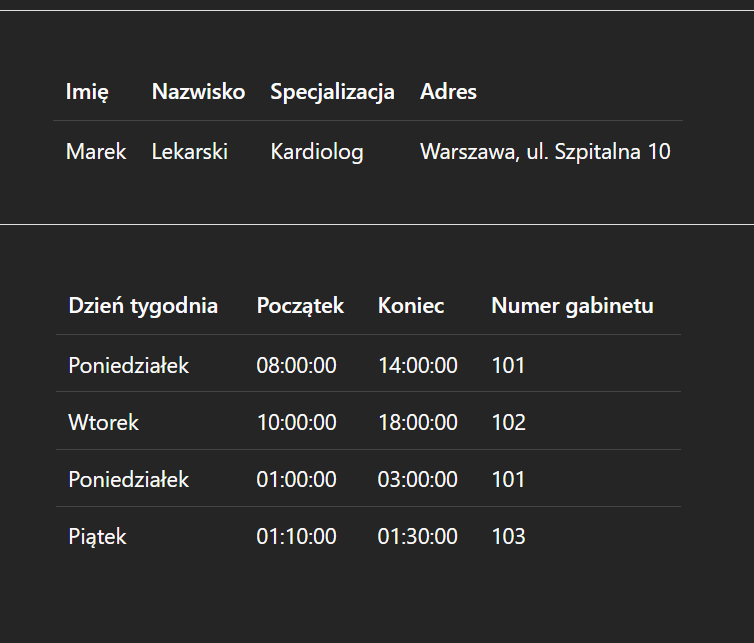
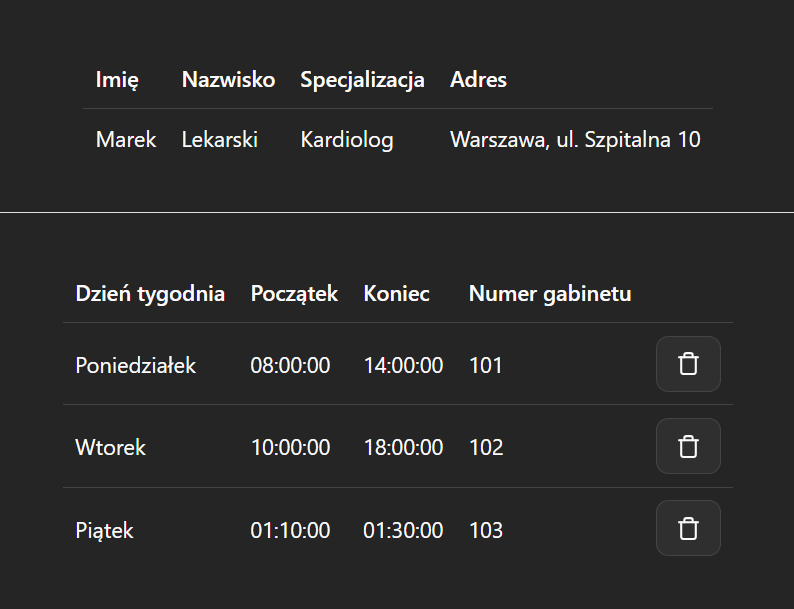
small visual and README changes

diff --git a/frontend/src/components/pages/patient-panel/PatientDetailsPage.tsx b/frontend/src/components/pages/patient-panel/PatientDetailsPage.tsx
@@ -11,14 +11,24 @@ import {
   callGetPatientAppointments,
   callGetPatientById,
 } from "@/api/patient_calls";
-import { TableDetailsStyled } from "@/styles/styledcomponent";
+import { Divider, TableDetailsStyled } from "@/styles/styledcomponent";
 import { Button } from "@/components/ui/button";
 import { toast } from "sonner";
 import { callDeleteAppointments } from "@/api/appointment_calls";
-import type { Appointment } from "@/types/appointment";
 import { Trash } from "lucide-react";
 import type { Doctor } from "@/types/doctor";
 import { SPECIALIZATIONS } from "@/constants/specializations";
+import styled from "styled-components";
+
+const CenterText = styled.div`
+  display: flex;
+  justify-content: center;
+  align-items: center;
+`;
+
+const AppointmentWrapper = styled.div`
+  margin-top: 20px;
+`;
 
 type PacientAppointment = {
   doctor: Doctor;
@@ -70,7 +80,11 @@ const PatientDetailsPage = () => {
           </TableBody>
         </div>
       </TableDetailsStyled>
-      <DisplayAppointmentInfo patientId={Number(idValue)} />
+      <Divider />
+      <AppointmentWrapper>
+        <CenterText>Wizyty</CenterText>
+        <DisplayAppointmentInfo patientId={Number(idValue)} />
+      </AppointmentWrapper>
     </>
   );
 };

diff --git a/README.md b/README.md
@@ -4,7 +4,6 @@
 
 ![UML](assets/uml.png)
 
-
 ## Zaimplementowane funkcjonalności m1
 
 ### Zarządzanie lekarzami
@@ -61,14 +60,17 @@ Dodane zostało zapytanie o **dyżury lekarza** - `GET /doctors/{id}/shifts`
 ### Zarządzanie wizytami (Appointment)
 
 1. **Dodanie wizyty** - `POST /appointments/add`
+
    - Pola: id lekarza, id pacjenta, data, godzina rozpoczęcia i zakończenia
    - Walidacja: wizyta możliwa tylko gdy lekarz ma dyżur w danym terminie
    - Walidacja: wykrywanie konfliktów z istniejącymi wizytami
 
 2. **Wyświetlenie listy wizyt** - `GET /appointments`
+
    - Zwraca: informacje o lekarzu, pacjencie, dacie i godzinach
 
 3. **Edycja wizyty** - `PUT /appointments/{id}`
+
    - Pozwala na zmianę lekarza, pacjenta, daty i godzin
 
 4. **Usunięcie wizyty** - `DELETE /appointments/{id}`
@@ -85,6 +87,7 @@ Dodane zostało zapytanie o **dyżury lekarza** - `GET /doctors/{id}/shifts`
 ### Testy jednostkowe
 
 Dodane testy dla wszystkich serwisów:
+
 - `AppointmentServiceTests` - 38 testów
 - `PatientServiceTests` - 35 testów
 
@@ -114,25 +117,31 @@ Na początku znajdujemy się na stronie głównej
 
 ![HOME](assets/home-page.png)
 
-Aby zmienić stronę klikamy w Selecta i zmieniamy na Panel Admina
+Aby zmienić stronę klikamy w Selecta i zmieniamy na dowolny panel
 
 ![Select](assets/select.png)
 
-Teraz mamy wyświetloną listę wszystkich dostępnych lekarzy
+Przykładowo klikając na **Panel lekarza** mamy wyświetloną listę wszystkich dostępnych lekarzy
 
 ### Funkcjonalności w panelu lekarza
+
+#### Wyświetlanie lekarzy
 
 ![Doctors](assets/doctors.png)
 
 - Aby wyświetlić szczegóły klikamy w oko
-
-![add-doctor](assets/doctor-details.png)
-
+- Aby usunąć lekarza klikamy w x
 - Aby dodać lekarza klikamy w +
 
-![add-doctor](assets/add-doctor.png)
+#### Wyświetlanie szczegółów
 
-- Aby usunąć lekarza klikamy w x
+![doctor-details](assets/doctor-details.png)
+
+W szczegółach można też usunąć dyżur
+
+#### Dodawanie lekarza
+
+![add-doctor](assets/add-doctor.png)
 
 ### Dodane panele
 
@@ -140,18 +149,20 @@ Teraz mamy wyświetloną listę wszystkich dostępnych lekarzy
 
 ![offices](assets/offices.png)
 
-Szczegóły gabinetów
+##### Szczegóły gabinetów
 
 ![office-details](assets/office-details.png)
 
 #### Panel pacjentów
 
-![pacients](assets/pacients.png)
+![patients](assets/patients.png)
 
-Szczegóły pacjentów
+##### Szczegóły pacjentów
 
-![pacient-details](assets/pacient-details.png)
+![patient-details](assets/patient-details.png)
 
-Pacjentów też można dodać
+W szczegółach pacjentów można usunąć też wizytę
 
-![add-pacient](assets/add-pacient.png)
+#### Dodawanie pacjentów
+
+![add-patient](assets/add-patient.png)
